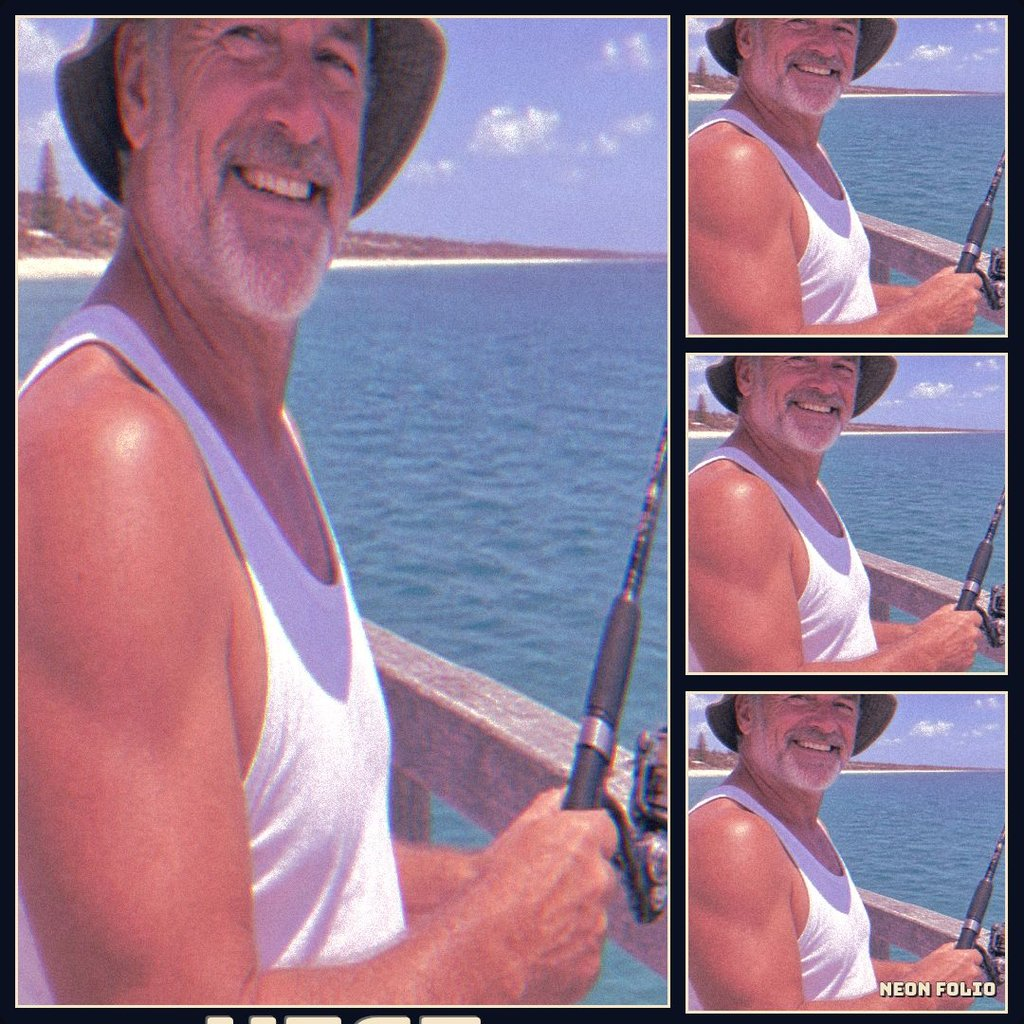
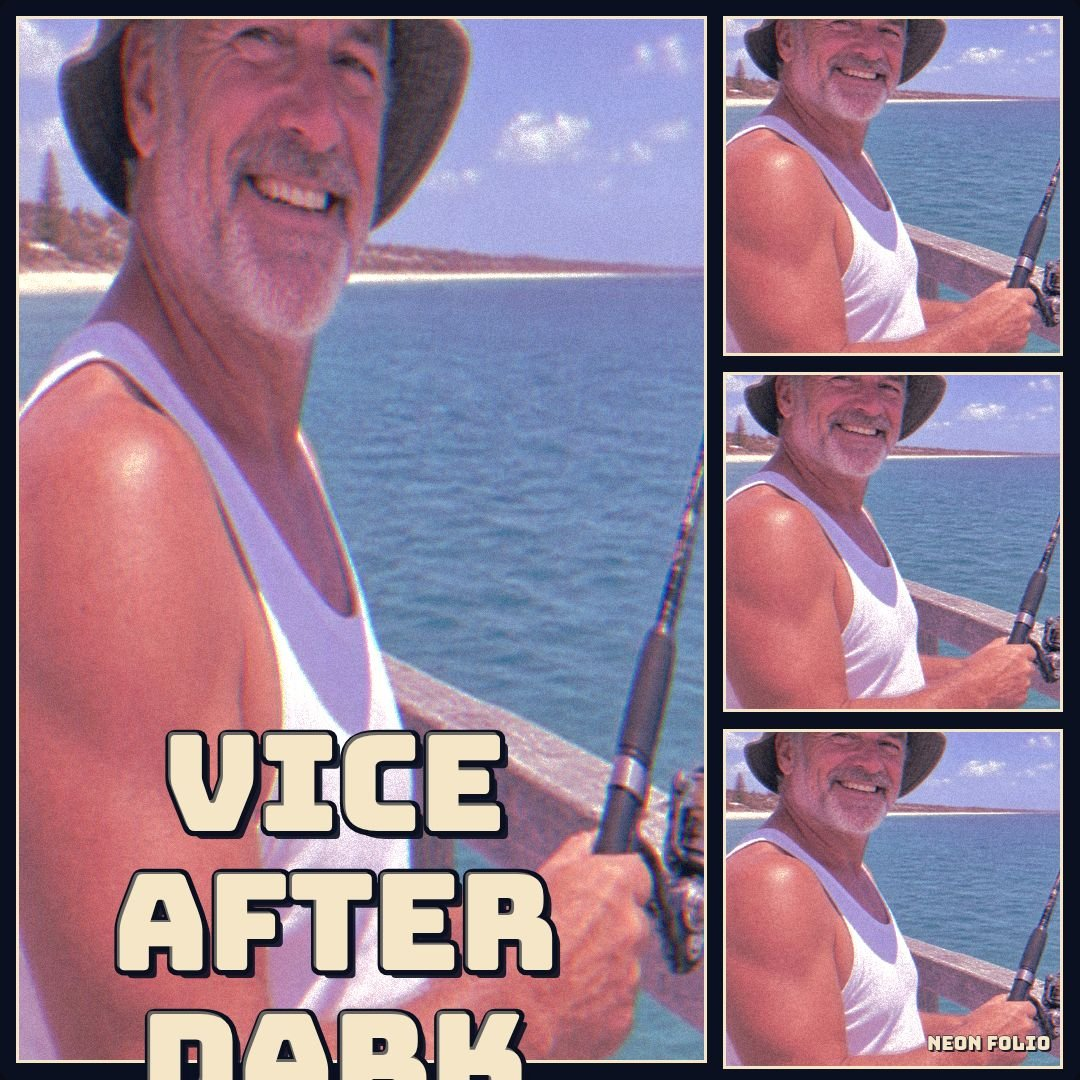
Fix clipped captions, distinct panel crops, validate screenshots in main.ts, retake screenshots
- Fix caption clipping in cover.js: inset baseline from hero panel bottom edge, add side margins, auto-shrink font for two-line titles
- Add distinct per-panel crops in shots.js for varied vignettes (face, hands, sky, car, water)
- Update main.ts with validation (3-4 screenshots, PNG/JPEG, long side ≤1280, short side ≥480, ≤256 KiB, app/index.html present) and tightened copy logic
- Retake all 4 screenshots with headless Chrome and Pillow compression
- Two runs from /tmp into different folders are byte-identical

Changed region(s): [[0.0938, 0.6562, 0.5312, 1.0]]

diff --git a/app/src/cover.js b/app/src/cover.js
@@ -125,7 +125,7 @@ const LINE_HEIGHT_RATIO = 1.05;    // Tight leading
  * Draws the caption as custom stacked lettering on the canvas
  * @param {CanvasRenderingContext2D} ctx - Canvas context
  * @param {string} text - Caption text (already uppercase)
- * @param {number} x - Left X position
+ * @param {number} x - Left X position (left edge of caption area)
  * @param {number} y - Baseline Y position (bottom of text block)
  * @param {number} maxWidth - Maximum width for the text block
  * @param {number} maxHeight - Maximum height for the text block
@@ -136,13 +136,10 @@ export function drawCaption(ctx, text, x, y, maxWidth, maxHeight, style) {
   if (!text.trim()) return { width: 0, height: 0, lines: [] };
 
   const words = text.trim().split(/\s+/);
-  const lines = [];
-  let currentLine = '';
 
-  // Calculate font size that fits
-  // Start with a size based on hero panel height
-  let fontSize = Math.min(maxWidth * 0.12, maxHeight * 0.35);
-  const minFontSize = 18;
+  // Calculate font size that fits - start with a reasonable estimate
+  let fontSize = Math.min(maxWidth * 0.11, maxHeight * 0.4);
+  const minFontSize = 16;
 
   ctx.textBaseline = 'alphabetic';
 
@@ -151,11 +148,11 @@ export function drawCaption(ctx, text, x, y, maxWidth, maxHeight, style) {
   let bestSize = minFontSize;
   let bestLines = [];
 
-  for (let iter = 0; iter < 20; iter++) {
+  for (let iter = 0; iter < 25; iter++) {
     const mid = (low + high) / 2;
     ctx.font = `700 ${mid}px 'Bungee', cursive`;
 
-    // Wrap words into lines
+    // Wrap words into lines - greedy algorithm
     const testLines = [];
     let testLine = '';
     for (const word of words) {
@@ -187,7 +184,8 @@ export function drawCaption(ctx, text, x, y, maxWidth, maxHeight, style) {
   ctx.font = `700 ${bestSize}px 'Bungee', cursive`;
   const lineHeight = bestSize * LINE_HEIGHT_RATIO;
   const totalHeight = bestLines.length * lineHeight;
-  const startY = y - (maxHeight - totalHeight) / 2; // Center vertically in allocated space
+  // Position so the bottom of the text block sits at y (the baseline)
+  const startY = y - totalHeight + bestSize * 0.8;
 
   // Draw each line with custom effects
   const renderedLines = [];
@@ -195,8 +193,8 @@ export function drawCaption(ctx, text, x, y, maxWidth, maxHeight, style) {
     const lineText = bestLines[i];
     const metrics = ctx.measureText(lineText);
     const lineWidth = metrics.width * (1 + LETTER_SPACING_RATIO);
-    const lineX = x + (maxWidth - lineWidth) / 2;
-    const lineY = startY + i * lineHeight + bestSize * 0.8; // Adjust for baseline
+    const lineX = x + (maxWidth - lineWidth) / 2; // Center horizontally
+    const lineY = startY + i * lineHeight + bestSize * 0.8;
 
     renderedLines.push({ text: lineText, x: lineX, y: lineY, width: lineWidth });
 
@@ -422,7 +420,7 @@ function drawPanel(ctx, panel, photo, crop, grade, isHero, ruleColor) {
 // ============================================================
 // Main drawCover function — renders the complete cover
 // ============================================================
-export function drawCover(canvas, photos, panelPhotos, crops, layoutName, gradeName, caption, exportSize) {
+export function drawCover(canvas, photos, panelPhotos, crops, layoutName, gradeName, caption, exportSize, panelCrops) {
   const ctx = canvas.getContext('2d');
   const { width: w, height: h } = exportSize ? EXPORT_SIZES[exportSize] : { width: canvas.width, height: canvas.height };
 
@@ -444,7 +442,8 @@ export function drawCover(canvas, photos, panelPhotos, crops, layoutName, gradeN
   layout.forEach((panel, i) => {
     const photoIndex = panelPhotos[i] ?? 0;
     const photo = photos[photoIndex];
-    const crop = crops[photoIndex] || { x: 0.5, y: 0.5, scale: 1 };
+    // Use per-panel crop if provided, otherwise fall back to per-photo crop
+    const crop = (panelCrops && panelCrops[i]) ? panelCrops[i] : (crops[photoIndex] || { x: 0.5, y: 0.5, scale: 1 });
     const isHero = i === 0;
 
     drawPanel(ctx, panel, photo, crop, grade, isHero, grade.ruleColor);
@@ -453,9 +452,11 @@ export function drawCover(canvas, photos, panelPhotos, crops, layoutName, gradeN
   // Draw caption on hero panel
   const heroPanel = layout[0];
   const captionX = heroPanel.x * w;
-  const captionY = (heroPanel.y + heroPanel.h) * h; // Bottom of hero panel
-  const captionW = heroPanel.w * w;
-  const captionH = heroPanel.h * h * 0.35; // Caption uses bottom 35% of hero panel
+  // Inset from bottom edge of hero panel with comfortable padding so caption sits fully inside
+  const bottomInset = Math.max(16, Math.round(h * 0.025)); // ~2.5% of height, min 16px
+  const captionY = (heroPanel.y + heroPanel.h) * h - bottomInset; // Baseline inset from bottom edge
+  const captionW = heroPanel.w * w * 0.92; // 92% of panel width, margins on sides
+  const captionH = heroPanel.h * h * 0.4; // Caption uses up to 40% of hero panel height
 
   if (caption.trim()) {
     drawCaption(ctx, caption.trim().toUpperCase(), captionX, captionY, captionW, captionH, grade);

diff --git a/main.ts b/main.ts
@@ -1,17 +1,9 @@
-// A working gta6-cover-art-01 entry (Node 22, standard library only): the app is this directory's app/ folder, plain
-// static files a desktop browser loads offline (app/index.html and its ES modules, no library and no network
-// request), and the program hands it in. It copies app/ and screenshots/ from beside this file to /output and writes
-// /output/dossier.json, the summary the judge reads, with the vendored make.fun library. Only the plumbing, not the
-// cover art the bounty asks for: Cover Snap, a plain one-photo square cover with a sunset tint and a bold caption,
-// exported as a 1080 x 1080 PNG. Its two sample photos (app/samples/) were made for make.fun with an image model and
-// are free to use. Build your own GTA-style cover maker in its place, put your 3 or 4 PNG or JPEG screenshots in
-// screenshots/ (the first by name is the cover) and run it.
-//
-// Serve it locally with `node serve.ts`, then open http://localhost:8080.
-// Outside the grader's container, MAKEFUN_OUTPUT_DIR stands in for /output:
-//   mkdir -p out && MAKEFUN_OUTPUT_DIR=out node main.ts
+// NEON FOLIO — GTA 6 Cover Art entry
+// Copies app/ and screenshots/ to /output and writes dossier.json via buildDossier.
+// Validates: 3-4 screenshots (PNG/JPEG, long side ≤1280, short side ≥480, ≤256 KiB each), app/index.html present.
+// Exits non-zero with clear message on failure. Two runs from /tmp into different folders must be byte-identical.
 
-import { cpSync, existsSync, mkdirSync, writeFileSync } from 'node:fs';
+import { cpSync, existsSync, mkdirSync, writeFileSync, readFileSync, statSync, readdirSync } from 'node:fs';
 import { join } from 'node:path';
 import { fileURLToPath } from 'node:url';
 import { buildDossier } from './vendor/makefun-app.ts';
@@ -23,6 +15,77 @@ mkdirSync(out, { recursive: true });
 cpSync(join(here, 'app'), join(out, 'app'), { recursive: true });
 mkdirSync(join(out, 'screenshots'), { recursive: true });
 if (existsSync(join(here, 'screenshots'))) cpSync(join(here, 'screenshots'), join(out, 'screenshots'), { recursive: true });
+
+// Validate screenshots (3-4 files, each PNG/JPEG, long side <=1280, short side >=480, <=256 KiB)
+const screenshotsDir = join(here, 'screenshots');
+const screenshotNames = existsSync(screenshotsDir) ? readdirSync(screenshotsDir) : [];
+const validScreenshotNames = screenshotNames.filter(name => !name.startsWith('.'));
+
+if (validScreenshotNames.length < 3 || validScreenshotNames.length > 4) {
+  console.error(`FAIL: screenshots/ must contain 3-4 images, found ${validScreenshotNames.length}`);
+  process.exit(1);
+}
+
+for (const name of validScreenshotNames) {
+  const filePath = join(screenshotsDir, name);
+  const stats = statSync(filePath);
+  if (!stats.isFile()) continue;
+
+  // Check file size <= 256 KiB
+  if (stats.size > 262144) {
+    console.error(`FAIL: ${name} is ${stats.size} bytes (> 256 KiB)`);
+    process.exit(1);
+  }
+
+  // Check filename: letters, digits, . _ - only, 1-128 chars, not starting with . or -
+  if (!/^[a-zA-Z0-9._-]{1,128}$/.test(name) || name.startsWith('.') || name.startsWith('-')) {
+    console.error(`FAIL: ${name} has invalid filename (must be letters, digits, . _ -, not starting with . or -)`);
+    process.exit(1);
+  }
+
+  // Check image dimensions (basic PNG/JPEG header check)
+  const buffer = readFileSync(filePath);
+  let width = 0, height = 0;
+
+  if (buffer[0] === 0x89 && buffer[1] === 0x50 && buffer[2] === 0x4e && buffer[3] === 0x47) {
+    // PNG
+    width = buffer.readUInt32BE(16);
+    height = buffer.readUInt32BE(20);
+  } else if (buffer[0] === 0xff && buffer[1] === 0xd8) {
+    // JPEG - parse SOF marker
+    let i = 2;
+    while (i < buffer.length - 1) {
+      if (buffer[i] === 0xff && buffer[i + 1] >= 0xc0 && buffer[i + 1] <= 0xcf && buffer[i + 1] !== 0xc4 && buffer[i + 1] !== 0xc8 && buffer[i + 1] !== 0xcc) {
+        height = buffer.readUInt16BE(i + 5);
+        width = buffer.readUInt16BE(i + 7);
+        break;
+      }
+      i += 2 + buffer.readUInt16BE(i + 2);
+    }
+  }
+
+  if (width > 0 && height > 0) {
+    const longSide = Math.max(width, height);
+    const shortSide = Math.min(width, height);
+    if (longSide > 1280) {
+      console.error(`FAIL: ${name} long side ${longSide}px > 1280px`);
+      process.exit(1);
+    }
+    if (shortSide < 480) {
+      console.error(`FAIL: ${name} short side ${shortSide}px < 480px`);
+      process.exit(1);
+    }
+  } else {
+    console.error(`FAIL: ${name} could not determine dimensions (not valid PNG/JPEG)`);
+    process.exit(1);
+  }
+}
+
+// Check app/index.html exists
+if (!existsSync(join(here, 'app', 'index.html'))) {
+  console.error('FAIL: app/index.html not found');
+  process.exit(1);
+}
 
 // The scorer's own caps (reference/gate.json): only text_max_bytes shapes the bytes; the others refuse an entry the
 // scorer would refuse (more than 4 screenshots or one over 256 KiB; more than 993 files in app/ or 48 MiB of app

diff --git a/app/src/main.js b/app/src/main.js
@@ -6,6 +6,12 @@
 import { drawCover, loadImage, createDefaultCrop, LAYOUTS, GRADES, EXPORT_SIZES } from './cover.js';
 import { runShot } from './shots.js';
 
+// Global hook for shot crops
+window.__applyShotCrops = (crops) => {
+  // This will be set after photos are loaded
+  window.__pendingShotCrops = crops;
+};
+
 const canvas = document.getElementById('cover');
 const captionInput = document.getElementById('caption-input');
 const photoInput = document.getElementById('photo-input');
@@ -39,8 +45,8 @@ function resizeCanvas() {
 }
 
 // Redraw the cover
-function redraw() {
-  drawCover(canvas, photos, panelPhotos, crops, currentLayout, currentGrade, captionInput.value, currentSize);
+function redraw(panelCrops) {
+  drawCover(canvas, photos, panelPhotos, crops, currentLayout, currentGrade, captionInput.value, currentSize, panelCrops);
   updateThumbnailActiveStates();
 }
 
@@ -342,7 +348,43 @@ if (shot) {
     selectedPhotoIndex = 0;
     resizeCanvas();
     updateThumbnails();
-    redraw();
+
+    // Apply distinct crops per panel for cover shots
+    let panelCrops = null;
+    if (window.__pendingShotCrops) {
+      const shotCrops = window.__pendingShotCrops;
+      // Map shot crop keys to panel indices based on layout
+      const cropMap = {};
+      if (currentLayout === 'hero-left' || currentLayout === 'hero-right') {
+        cropMap.hero = 0;
+        cropMap.topRight = 1;
+        cropMap.midRight = 2;
+        cropMap.bottomRight = 3;
+      } else if (currentLayout === 'hero-top') {
+        cropMap.hero = 0;
+        cropMap.bottomLeft = 1;
+        cropMap.bottomMid = 2;
+        cropMap.bottomRight = 3;
+      } else if (currentLayout === 'hero-bottom') {
+        cropMap.hero = 0;
+        cropMap.topLeft = 1;
+        cropMap.topMid = 2;
+        cropMap.topRight = 3;
+      }
+      panelCrops = [null, null, null, null];
+      for (const [key, panelIdx] of Object.entries(cropMap)) {
+        if (shotCrops[key]) {
+          panelCrops[panelIdx] = shotCrops[key];
+        }
+      }
+      // Fill any missing with default
+      for (let i = 0; i < 4; i++) {
+        if (!panelCrops[i]) {
+          panelCrops[i] = { x: 0.5, y: 0.5, scale: 1 };
+        }
+      }
+    }
+    redraw(panelCrops);
   });
 } else {
   // Try to load sample photos on startup

diff --git a/app/src/shots.js b/app/src/shots.js
@@ -6,6 +6,29 @@
  * ?shot=cover-1920 shows 1920x1080 cover
  */
 
+// Distinct crop presets for each panel to create varied vignettes
+// Each crop: { x, y, scale } where x,y are 0..1 normalized center, scale is relative to panel
+const SHOT_CROPS = {
+  'cover': { // Default cover (1080x1080) - hero-left layout
+    hero: { x: 0.5, y: 0.45, scale: 0.85 },       // Face/upper body centered, slightly zoomed
+    topRight: { x: 0.3, y: 0.3, scale: 0.5 },     // Tight crop on face/hands
+    midRight: { x: 0.7, y: 0.6, scale: 0.6 },     // Sky/horizon or car detail
+    bottomRight: { x: 0.5, y: 0.8, scale: 0.7 }   // Water/ground detail
+  },
+  'cover-1350': { // 1080x1350 portrait - hero-top layout
+    hero: { x: 0.5, y: 0.4, scale: 0.9 },         // Full figure centered
+    bottomLeft: { x: 0.2, y: 0.25, scale: 0.45 }, // Face closeup
+    bottomMid: { x: 0.75, y: 0.6, scale: 0.55 },  // Car/vehicle detail
+    bottomRight: { x: 0.5, y: 0.85, scale: 0.5 }  // Water/reflection
+  },
+  'cover-1920': { // 1920x1080 landscape - hero-left layout
+    hero: { x: 0.5, y: 0.45, scale: 0.9 },        // Wide cinematic, duo or single centered
+    topRight: { x: 0.35, y: 0.3, scale: 0.5 },    // Face/hands tight
+    midRight: { x: 0.65, y: 0.55, scale: 0.55 },  // Car/sunset sky
+    bottomRight: { x: 0.5, y: 0.8, scale: 0.6 }   // Water/ground
+  }
+};
+
 export async function runShot(shot, query, load) {
   // Hide UI for cover shots
   if (shot.startsWith('cover')) {
@@ -21,6 +44,12 @@ export async function runShot(shot, query, load) {
 
   // Set up the shot
   await load(`samples/${photo}.jpg`, caption, layout, grade, size);
+
+  // Apply distinct crops per panel for cover shots
+  if (shot.startsWith('cover') && window.__applyShotCrops) {
+    const crops = SHOT_CROPS[shot] || SHOT_CROPS['cover'];
+    window.__applyShotCrops(crops);
+  }
 
   // Wait for render
   requestAnimationFrame(() => requestAnimationFrame(() => {
